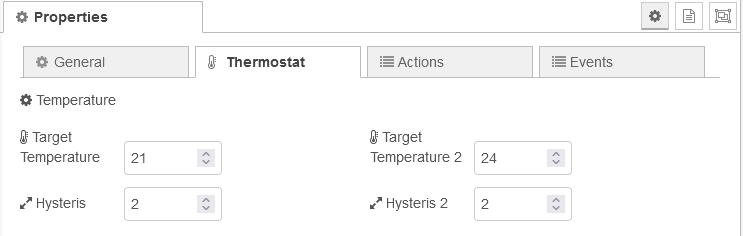
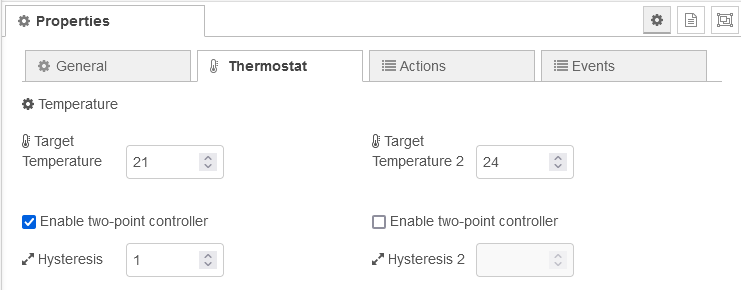
Add enable two-point control option in config on page thermo Fixed #130

diff --git a/src/nodes/nspanel-page-thermo.ts b/src/nodes/nspanel-page-thermo.ts
@@ -41,9 +41,10 @@ type PageThermoConfig = EntityBasedPageConfig & {
     temperatureUnit: string
 
     /* thermostat */
-    useThermostat: boolean
-    hysteris: number
-    hysteris2: number
+    enableTwoPointController: boolean
+    hysteresis: number
+    enableTwoPointController2: boolean
+    hysteresis2: number
 }
 
 type PageThermoData = {
@@ -58,6 +59,7 @@ type PageThermoData = {
 const MAX_ENTITIES = 8
 const TEMPERATURE_RESOLUTION_FACTOR = 10
 const ACTION_EMPTY = NSPanelConstants.STR_LUI_DELIMITER.repeat(3)
+const DEFAULT_HYSTERESIS = 1
 
 module.exports = (RED) => {
     class PageThermoNode extends EntitiesPageNode<PageThermoConfig> {
@@ -117,10 +119,9 @@ module.exports = (RED) => {
         }
 
         protected onNewTemperatureReading(tempMeasurement: number, tempMeasurement2?: number): void {
-            const hysteris = this.config.hysteris / 2
             const tempUnit = this.config.temperatureUnit === 'C' ? 'C' : 'F'
 
-            if (tempMeasurement != null && !Number.isNaN(tempMeasurement)) {
+            if (this.config.enableTwoPointController && tempMeasurement != null && !Number.isNaN(tempMeasurement)) {
                 this.data.currentTemperature = Number(tempMeasurement)
                 const thermoEventArgs: ThermostatEventArgs = {
                     type: 'thermostat',
@@ -131,9 +132,11 @@ module.exports = (RED) => {
                     temperature: this.data.currentTemperature,
                 }
 
-                if (tempMeasurement > thermoEventArgs.targetTemperature + hysteris) {
+                const hysteresisNum = Number(this.config.hysteresis ?? DEFAULT_HYSTERESIS)
+                const hysteresis = (Number.isNaN(hysteresisNum) ? DEFAULT_HYSTERESIS : hysteresisNum) / 2
+                if (tempMeasurement > thermoEventArgs.targetTemperature + hysteresis) {
                     thermoEventArgs.targetTemperatureMode = 'above'
-                } else if (tempMeasurement < thermoEventArgs.targetTemperature - hysteris) {
+                } else if (tempMeasurement < thermoEventArgs.targetTemperature - hysteresis) {
                     thermoEventArgs.targetTemperatureMode = 'below'
                 } else {
                     thermoEventArgs.targetTemperatureMode = 'on'
@@ -148,6 +151,7 @@ module.exports = (RED) => {
             }
 
             if (
+                this.config.enableTwoPointController2 &&
                 this.config.hasSecondTargetTemperature === true &&
                 tempMeasurement2 != null &&
                 !Number.isNaN(tempMeasurement2)
@@ -162,9 +166,11 @@ module.exports = (RED) => {
                     temperature2: this.data.currentTemperature2,
                 }
 
-                if (tempMeasurement2 > thermoEventArgs.targetTemperature2 + hysteris) {
+                const hysteresisNum = Number(this.config.hysteresis2 ?? DEFAULT_HYSTERESIS)
+                const hysteresis = (Number.isNaN(hysteresisNum) ? DEFAULT_HYSTERESIS : hysteresisNum) / 2
+                if (tempMeasurement2 > thermoEventArgs.targetTemperature2 + hysteresis) {
                     thermoEventArgs.targetTemperatureMode2 = 'above'
-                } else if (tempMeasurement2 < thermoEventArgs.targetTemperature2 - hysteris) {
+                } else if (tempMeasurement2 < thermoEventArgs.targetTemperature2 - hysteresis) {
                     thermoEventArgs.targetTemperatureMode2 = 'below'
                 } else {
                     thermoEventArgs.targetTemperatureMode2 = 'on'

diff --git a/src/nodes/nspanel-page-thermo.html b/src/nodes/nspanel-page-thermo.html
@@ -170,12 +170,22 @@
                         </label>
                         <input type="number" id="node-input-targetTemperature" style="width: 7em;" />
                     </div>
+
+                    <br />
+                    <div class="form-row">
+                        <input
+                            type="checkbox"
+                            id="node-input-enableTwoPointController"
+                            style="display:inline-block; width:auto; vertical-align:top;"
+                        />
+                        <span data-i18n="nspanel-page-thermo.label.enableTwoPointController" style="width:auto"></span>
+                    </div>
                     <div class="form-row">
                         <label for="node-input-targetTemperature">
                             <i class="fa fa-expand"></i>
-                            <span data-i18n="nspanel-page-thermo.label.hysteris"></span>
+                            <span data-i18n="nspanel-page-thermo.label.hysteresis"></span>
                         </label>
-                        <input type="number" id="node-input-hysteris" style="width: 7em;" />
+                        <input type="number" id="node-input-hysteresis" style="width: 7em;" />
                     </div>
                 </div>
                 <div id="nsPanel-targetTemperature2" class="form-row" style="flex-grow: 1;">
@@ -186,12 +196,22 @@
                         </label>
                         <input type="number" id="node-input-targetTemperature2" style="width: 7em;" />
                     </div>
+
+                    <br />
                     <div class="form-row">
-                        <label for="node-input-hysteris2">
+                        <input
+                            type="checkbox"
+                            id="node-input-enableTwoPointController2"
+                            style="display:inline-block; width:auto; vertical-align:top;"
+                        />
+                        <span data-i18n="nspanel-page-thermo.label.enableTwoPointController2" style="width:auto"></span>
+                    </div>
+                    <div class="form-row">
+                        <label for="node-input-hysteresis2">
                             <i class="fa fa-expand"></i>
-                            <span data-i18n="nspanel-page-thermo.label.hysteris2"></span>
+                            <span data-i18n="nspanel-page-thermo.label.hysteresis2"></span>
                         </label>
-                        <input type="number" id="node-input-hysteris2" style="width: 7em;" />
+                        <input type="number" id="node-input-hysteresis2" style="width: 7em;" />
                     </div>
                 </div>
             </div>

diff --git a/src/nodes/locales/en/nspanel-page-thermo.html b/src/nodes/locales/en/nspanel-page-thermo.html
@@ -29,9 +29,11 @@
     <h4><b>Thermostat</b></h4>
     <ul>
         <li><b>Target Temperature</b>: Target temperature</li>
-        <li><b>Hysteris</b> The deadband to be used for two-point control</li>
+        <li><b>Enable two-point controller</b>: Enables the two-point controller</li>
+        <li><b>Hysteresis</b> The deadband to be used for two-point control</li>
         <li><b>Target Temperature 2</b>: Second target temperature</li>
-        <li><b>Hysteris 2</b>: The deadband to be used for the second two-point control</li>
+        <li><b>Enable two-point controller 2</b>: Enables the second two-point controller</li>
+        <li><b>Hysteresis 2</b>: The deadband to be used for the second two-point control</li>
     </ul>
 
     <h4><b>Actions</b></h4>
@@ -53,22 +55,23 @@
             >: Action to execute when the left hardware button is pressed.
         </li>
         <li><b>Actions</b>: Actions can be assigned to configured actions.</li>
-        <li><b>Temperature below target</b>: Current temperature is below target temperature</li>
+        <li><b>Temperature below target**</b>: Current temperature is below target temperature</li>
         <li>
-            <b>Temperature on target</b>: Target temperature was reached and is within the range of the configured
+            <b>Temperature on target**</b>: Target temperature was reached and is within the range of the configured
             hysteresis
         </li>
-        <li><b>Temperature above target</b>: Current temperature is above target temperature</li>
-        <li><b>Temperature below target 2</b>:Current temperature 2 is below second target temperature</li>
+        <li><b>Temperature above target**</b>: Current temperature is above target temperature</li>
+        <li><b>Temperature below target 2**</b>:Current temperature 2 is below second target temperature</li>
         <li>
-            <b>Temperature on target 2</b>: Second target temperature was reached and is within the range of the
+            <b>Temperature on target 2**</b>: Second target temperature was reached and is within the range of the
             configured hysteresis
         </li>
-        <li><b>Temperature above target 2</b>: Current temperature 2 is above second target temperature</li>
+        <li><b>Temperature above target 2**</b>: Current temperature 2 is above second target temperature</li>
     </ul>
     <p>
         * Only available if the <i>Decouple buttons from relays</i> option is set on the nspanel-panel configuration
-        node.
+        node.<br />
+        ** Only triggered, if <i>Enable two-point controller</i> or <i>Enable two-point controller 2</i> is checked.
     </p>
 
     <h3>Inputs</h3>

diff --git a/src/nodes/locales/de/nspanel-page-thermo.html b/src/nodes/locales/de/nspanel-page-thermo.html
@@ -32,8 +32,10 @@
     <h4><b>Thermostat</b></h4>
     <ul>
         <li><b>Zielwert Temperatur</b>: Zieltemperatur</li>
+        <li><b>Zweipunktregler aktivieren</b>: Aktiviert den Zweipunktregler</li>
         <li><b>Hysterese</b> Die Totzone, die für die Zweipunktregelung verwendet wird</li>
         <li><b>Zielwert Temperatur 2</b>: Zweite Zieltemperatur</li>
+        <li><b>Zweipunktregler 2 aktivieren</b>: Aktiviert den zweiten Zweipunktregler</li>
         <li><b>Hysterese 2</b>: Die Totzone, die für die zweite Zweipunktregelung verwendet wird</li>
     </ul>
 
@@ -56,18 +58,21 @@
             >: Aktion, welche ausgeführt wird, wenn die rechte Hardware-Taste gedrückt wird.
         </li>
         <li><b>Aktionen</b>: Zusätzlich können Aktionen mit Aktionen verbunden werden.</li>
-        <li><b>Temperatur unter Zielwert</b>: Zieltemperatur wurde unterschritten</li>
-        <li><b>Temperatur im Zielbereich</b>: Zieltemperatur wurde unter Berücksichtigung der Hysterese erreicht</li>
-        <li><b>Temperatur über Zielwert</b>: Zieltemperatur wurde überschritten</li>
-        <li><b>Temperatur unter Zielwert 2</b>: Zweite Zieltemperatur wurde unterschritten</li>
+        <li><b>Temperatur unter Zielwert**</b>: Zieltemperatur wurde unterschritten</li>
+        <li><b>Temperatur im Zielbereich**</b>: Zieltemperatur wurde unter Berücksichtigung der Hysterese erreicht</li>
+        <li><b>Temperatur über Zielwert**</b>: Zieltemperatur wurde überschritten</li>
+        <li><b>Temperatur unter Zielwert 2**</b>: Zweite Zieltemperatur wurde unterschritten</li>
         <li>
-            <b>Temperatur im Zielbereich 2</b>: Zweite Zieltemperatur wurde unter Berücksichtigung der Hysterese
+            <b>Temperatur im Zielbereich 2**</b>: Zweite Zieltemperatur wurde unter Berücksichtigung der Hysterese
             erreicht
         </li>
-        <li><b>Temperatur über Zielwert 2</b>: Zweite Zieltemperatur wurde überschritten</li>
+        <li><b>Temperatur über Zielwert 2**</b>: Zweite Zieltemperatur wurde überschritten</li>
     </ul>
     <p>
-        * Nur verfügbar, wenn die Option <i>Tasten von Relais entkoppeln</i> in der Panel-Konfiguration aktiviert ist.
+        * Nur verfügbar, wenn die Option <i>Tasten von Relais entkoppeln</i> in der Panel-Konfiguration aktiviert
+        ist.<br />
+        ** Nur ausgelöst, wenn die Option <i>Zweipunktregler aktivieren</i> bzw.
+        <i>Zweipunktregler 2 aktivieren</i> ausgewählt ist.
     </p>
 
     <h3>Eingangsdaten</h3>

diff --git a/src/resources/nspanel-page-thermo.html.ts b/src/resources/nspanel-page-thermo.html.ts
@@ -98,19 +98,25 @@
                         return result
                     },
                 },
-                hysteris: {
-                    value: 3,
+                enableTwoPointController: { value: false },
+                hysteresis: {
+                    value: 2,
                     validate(v) {
+                        const twoPointCtrlDisabled = $('#node-input-enableTwoPointController').is(':checked') === false
+                        if (twoPointCtrlDisabled) return true
+
                         const vNum = Number(v)
 
                         return !Number.isNaN(vNum) && vNum > 0
                     },
                 },
-                hysteris2: {
-                    value: 3,
+                enableTwoPointController2: { value: false },
+                hysteresis2: {
+                    value: 2,
                     validate(v) {
                         const has2ndTemp = $('#node-input-hasSecondTargetTemperature').is(':checked')
-                        if (has2ndTemp === false) return true
+                        const twoPointCtrlDisabled = $('#node-input-enableTwoPointController2').is(':checked') === false
+                        if (has2ndTemp === false || twoPointCtrlDisabled) return true
 
                         const vNum = Number(v)
                         return !Number.isNaN(vNum) && vNum > 0
@@ -221,6 +227,15 @@
                     id: 'nspanel-page-tab-events',
                     iconClass: 'fa fa-list',
                     label: NSPanelLui._('label.events', 'nspanel-panel', 'common'),
+                })
+
+                $('#node-input-enableTwoPointController').on('change', () => {
+                    const enabled = $('#node-input-enableTwoPointController').is(':checked')
+                    $('#node-input-hysteresis').prop('disabled', !enabled)
+                })
+                $('#node-input-enableTwoPointController2').on('change', () => {
+                    const enabled = $('#node-input-enableTwoPointController2').is(':checked')
+                    $('#node-input-hysteresis2').prop('disabled', !enabled)
                 })
             },
             oneditsave() {

diff --git a/docs/page-node-thermo.md b/docs/page-node-thermo.md
@@ -34,9 +34,11 @@ The specified ID is used for the outgoing message in the `data` property of the 
 ![image](img/page-node-thermo_thermostat.png)
 
 -   **Target Temperature**: Target temperature<br/><br/>
--   **Hysteris**: The deadband to be used for two-point control<br/><br/>
+-   **Enable two-point controller**: Enables the two-point controller<br/><br/>
+-   **Hysteresis**: The deadband to be used for two-point control<br/><br/>
 -   **Target Temperature 2**: Second target temperature<br/><br/>
--   **Hysteris 2**: The deadband to be used for the second two-point control<br/><br/>
+-   **Enable two-point controller 2**: Enables the two-point controller 2<br/><br/>
+-   **Hysteresis 2**: The deadband to be used for the second two-point control<br/><br/>
 
 ### Events
 
